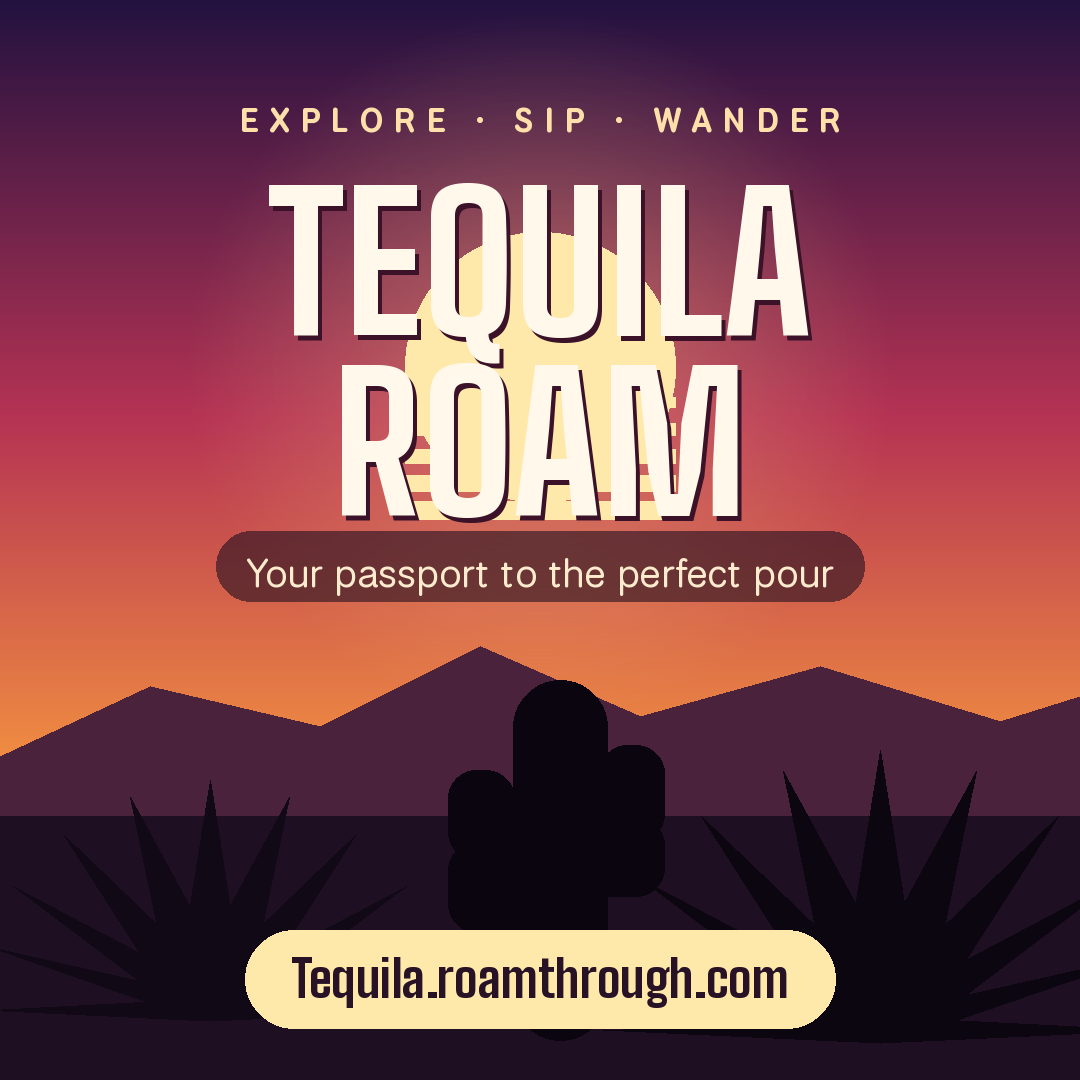
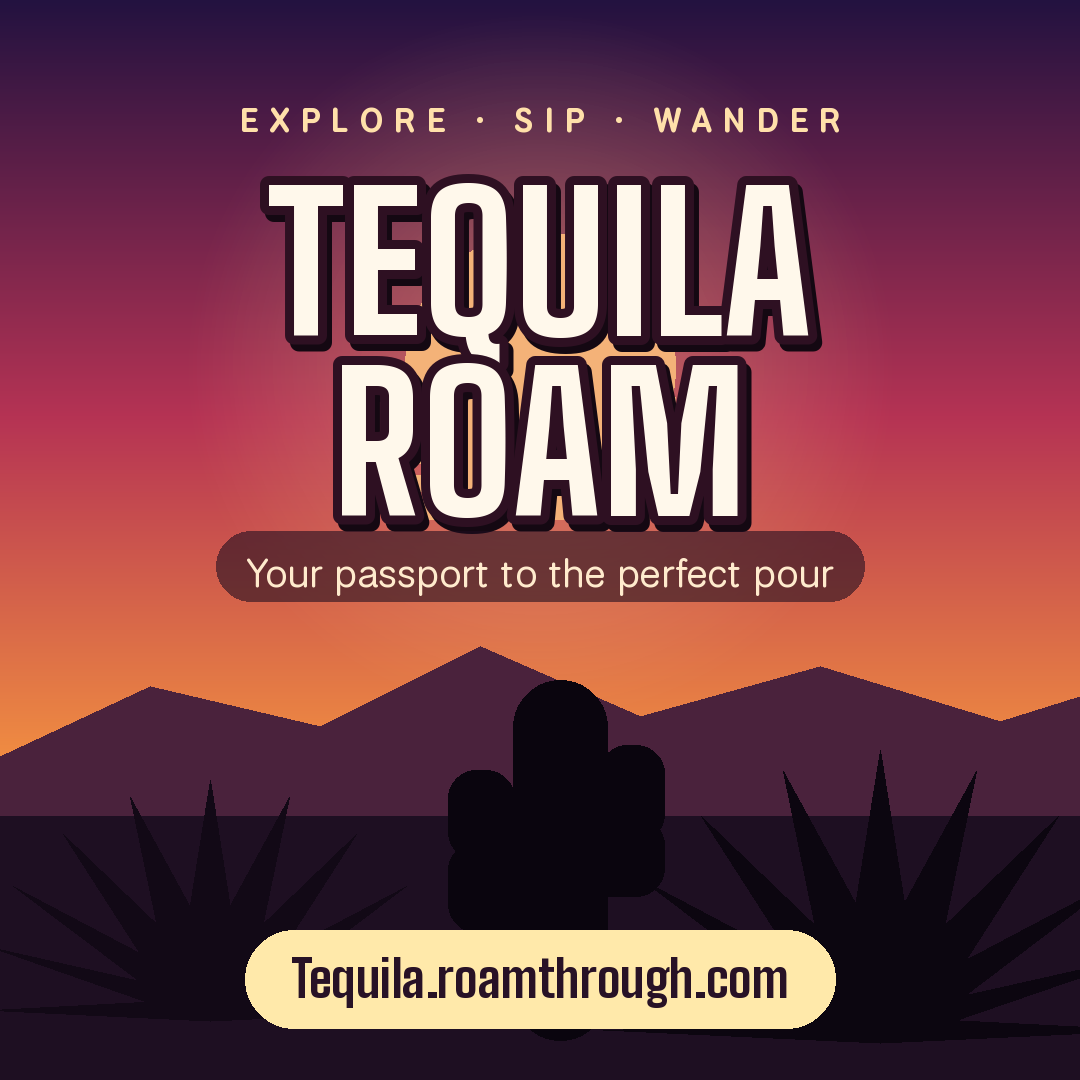
Boost title contrast: dark outline on TEQUILA ROAM, muted sun

Changed region(s): [[0.2444, 0.1528, 0.7639, 0.5194]]

diff --git a/make_graphic.py b/make_graphic.py
@@ -48,9 +48,9 @@ for r in range(sun_r + 220, sun_r, -4):
                fill=(255, 214, 140, max(a, 0)))
 img.paste(Image.alpha_composite(img.convert("RGBA"), glow).convert("RGB"), (0, 0))
 draw = ImageDraw.Draw(img, "RGBA")
-# sun disc
+# sun disc (slightly muted/warmer so it doesn't wash out the title)
 draw.ellipse([sun_cx - sun_r, sun_cy - sun_r, sun_cx + sun_r, sun_cy + sun_r],
-             fill=(255, 233, 170))
+             fill=(244, 178, 120))
 # retro sun stripes (cut bottom half with horizon-colored bars)
 for i, yb in enumerate(range(sun_cy + 30, sun_cy + sun_r, 26)):
     bh = 10 + i * 2
@@ -114,7 +114,7 @@ def saguaro(cx, base_y, h, color):
 saguaro(560, H - 40, 360, (10, 5, 14))
 
 # --- Text ---
-def center_text(y, text, fnt, fill, shadow=None, ls=0):
+def center_text(y, text, fnt, fill, shadow=None, ls=0, stroke=0, stroke_fill=None):
     if ls:
         # manual letter spacing
         widths = [draw.textlength(ch, font=fnt) for ch in text]
@@ -127,24 +127,30 @@ def center_text(y, text, fnt, fill, shadow=None, ls=0):
                 draw.text((cx2 + sx, y + sy), ch, font=fnt, fill=sc)
                 cx2 += w + ls
         for ch, w in zip(text, widths):
-            draw.text((x, y), ch, font=fnt, fill=fill)
+            draw.text((x, y), ch, font=fnt, fill=fill,
+                      stroke_width=stroke, stroke_fill=stroke_fill)
             x += w + ls
         return
     w = draw.textlength(text, font=fnt)
     x = (W - w) / 2
     if shadow:
         sx, sy, sc = shadow
-        draw.text((x + sx, y + sy), text, font=fnt, fill=sc)
-    draw.text((x, y), text, font=fnt, fill=fill)
+        draw.text((x + sx, y + sy), text, font=fnt, fill=sc,
+                  stroke_width=stroke, stroke_fill=sc)
+    draw.text((x, y), text, font=fnt, fill=fill,
+              stroke_width=stroke, stroke_fill=stroke_fill)
 
 # Kicker
 kick = font("NationalPark-Bold.ttf", 34)
 center_text(96, "EXPLORE • SIP • WANDER", kick, (255, 224, 170), ls=10)
 
-# Main title - two lines, big and bold
+# Main title - two lines, big and bold, with a heavy dark outline for contrast
 title = font("BigShoulders-Bold.ttf", 188)
-center_text(150, "TEQUILA", title, (255, 248, 235), shadow=(4, 5, (60, 18, 40, 180)))
-center_text(330, "ROAM", title, (255, 248, 235), shadow=(4, 5, (60, 18, 40, 180)))
+outline = (46, 16, 34)  # deep maroon-brown outline
+center_text(150, "TEQUILA", title, (255, 248, 235),
+            shadow=(5, 7, (20, 8, 18, 220)), stroke=9, stroke_fill=outline)
+center_text(330, "ROAM", title, (255, 248, 235),
+            shadow=(5, 7, (20, 8, 18, 220)), stroke=9, stroke_fill=outline)
 
 # Tagline (on its own translucent band for legibility)
 tag = font("NationalPark-Regular.ttf", 40)
